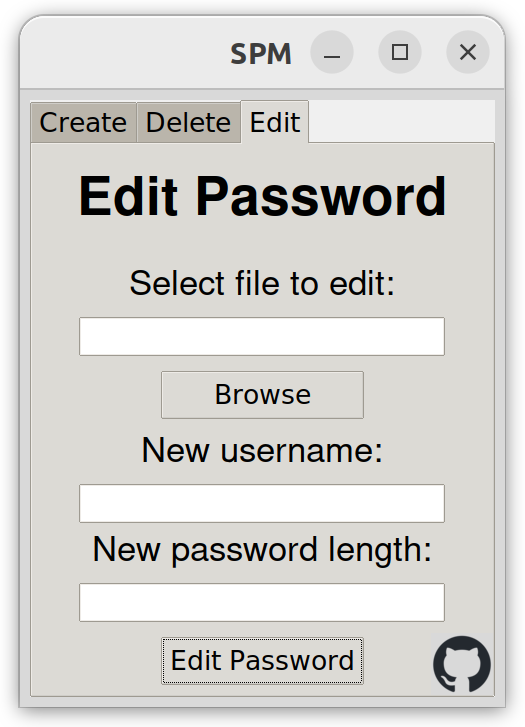
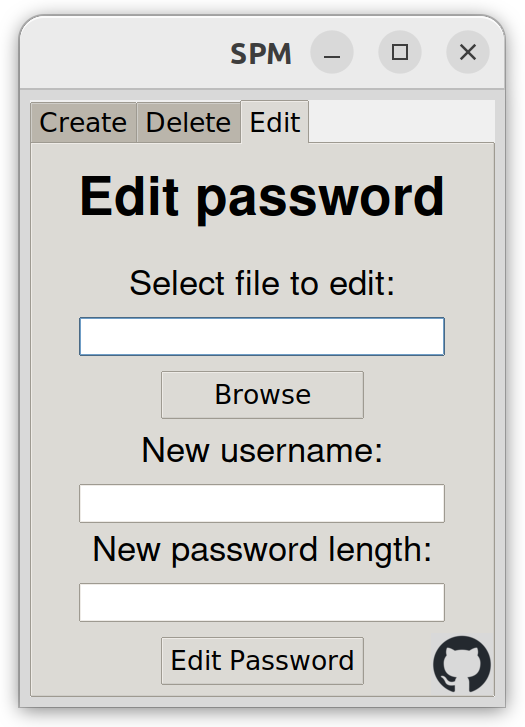
Added images for readme

diff --git a/src/password_graphical.py b/src/password_graphical.py
@@ -67,7 +67,7 @@ class PasswordManagerApp:
         create_button.configure(style='TButton')
 
         # Check if the image file exists, otherwise use a text button
-        github_image_path = 'button_image.png'
+        github_image_path = 'assets/button_image.png'
         if os.path.exists(github_image_path):
             create_image = PhotoImage(file=github_image_path)
             create_button_image = tk.Button(tab_create, image=create_image, command=self.extra_button_callback, relief='flat', highlightthickness=0, bd=0)
@@ -99,7 +99,7 @@ class PasswordManagerApp:
         delete_button.configure(style='TButton')
 
         # Check if the image file exists, otherwise use a text button
-        github_image_path = 'button_image.png'
+        github_image_path = 'assets/button_image.png'
         if os.path.exists(github_image_path):
             create_image = PhotoImage(file=github_image_path)
             create_button_image = tk.Button(tab_delete, image=create_image, command=self.extra_button_callback, relief='flat', highlightthickness=0, bd=0)
@@ -114,7 +114,7 @@ class PasswordManagerApp:
         self.notebook.add(tab_edit, text='Edit')
 
         # Create widgets for the "Edit" tab...
-        edit_label = ttk.Label(tab_edit, text='Edit Password', font=('Helvetica', 20, 'bold'), padding=(0, 20))
+        edit_label = ttk.Label(tab_edit, text='Edit password', font=('Helvetica', 20, 'bold'), padding=(0, 20))
         edit_label.pack(padx=10, pady=10)
 
         edit_filename_label = ttk.Label(tab_edit, text='Select file to edit:', font=('Helvetica', 13))
@@ -140,7 +140,7 @@ class PasswordManagerApp:
         edit_button.configure(style='TButton')
 
         # Check if the image file exists, otherwise use a text button
-        github_image_path = 'button_image.png'
+        github_image_path = 'assets/button_image.png'
         if os.path.exists(github_image_path):
             create_image = PhotoImage(file=github_image_path)
             create_button_image = tk.Button(tab_edit, image=create_image, command=self.extra_button_callback, relief='flat', highlightthickness=0, bd=0)
